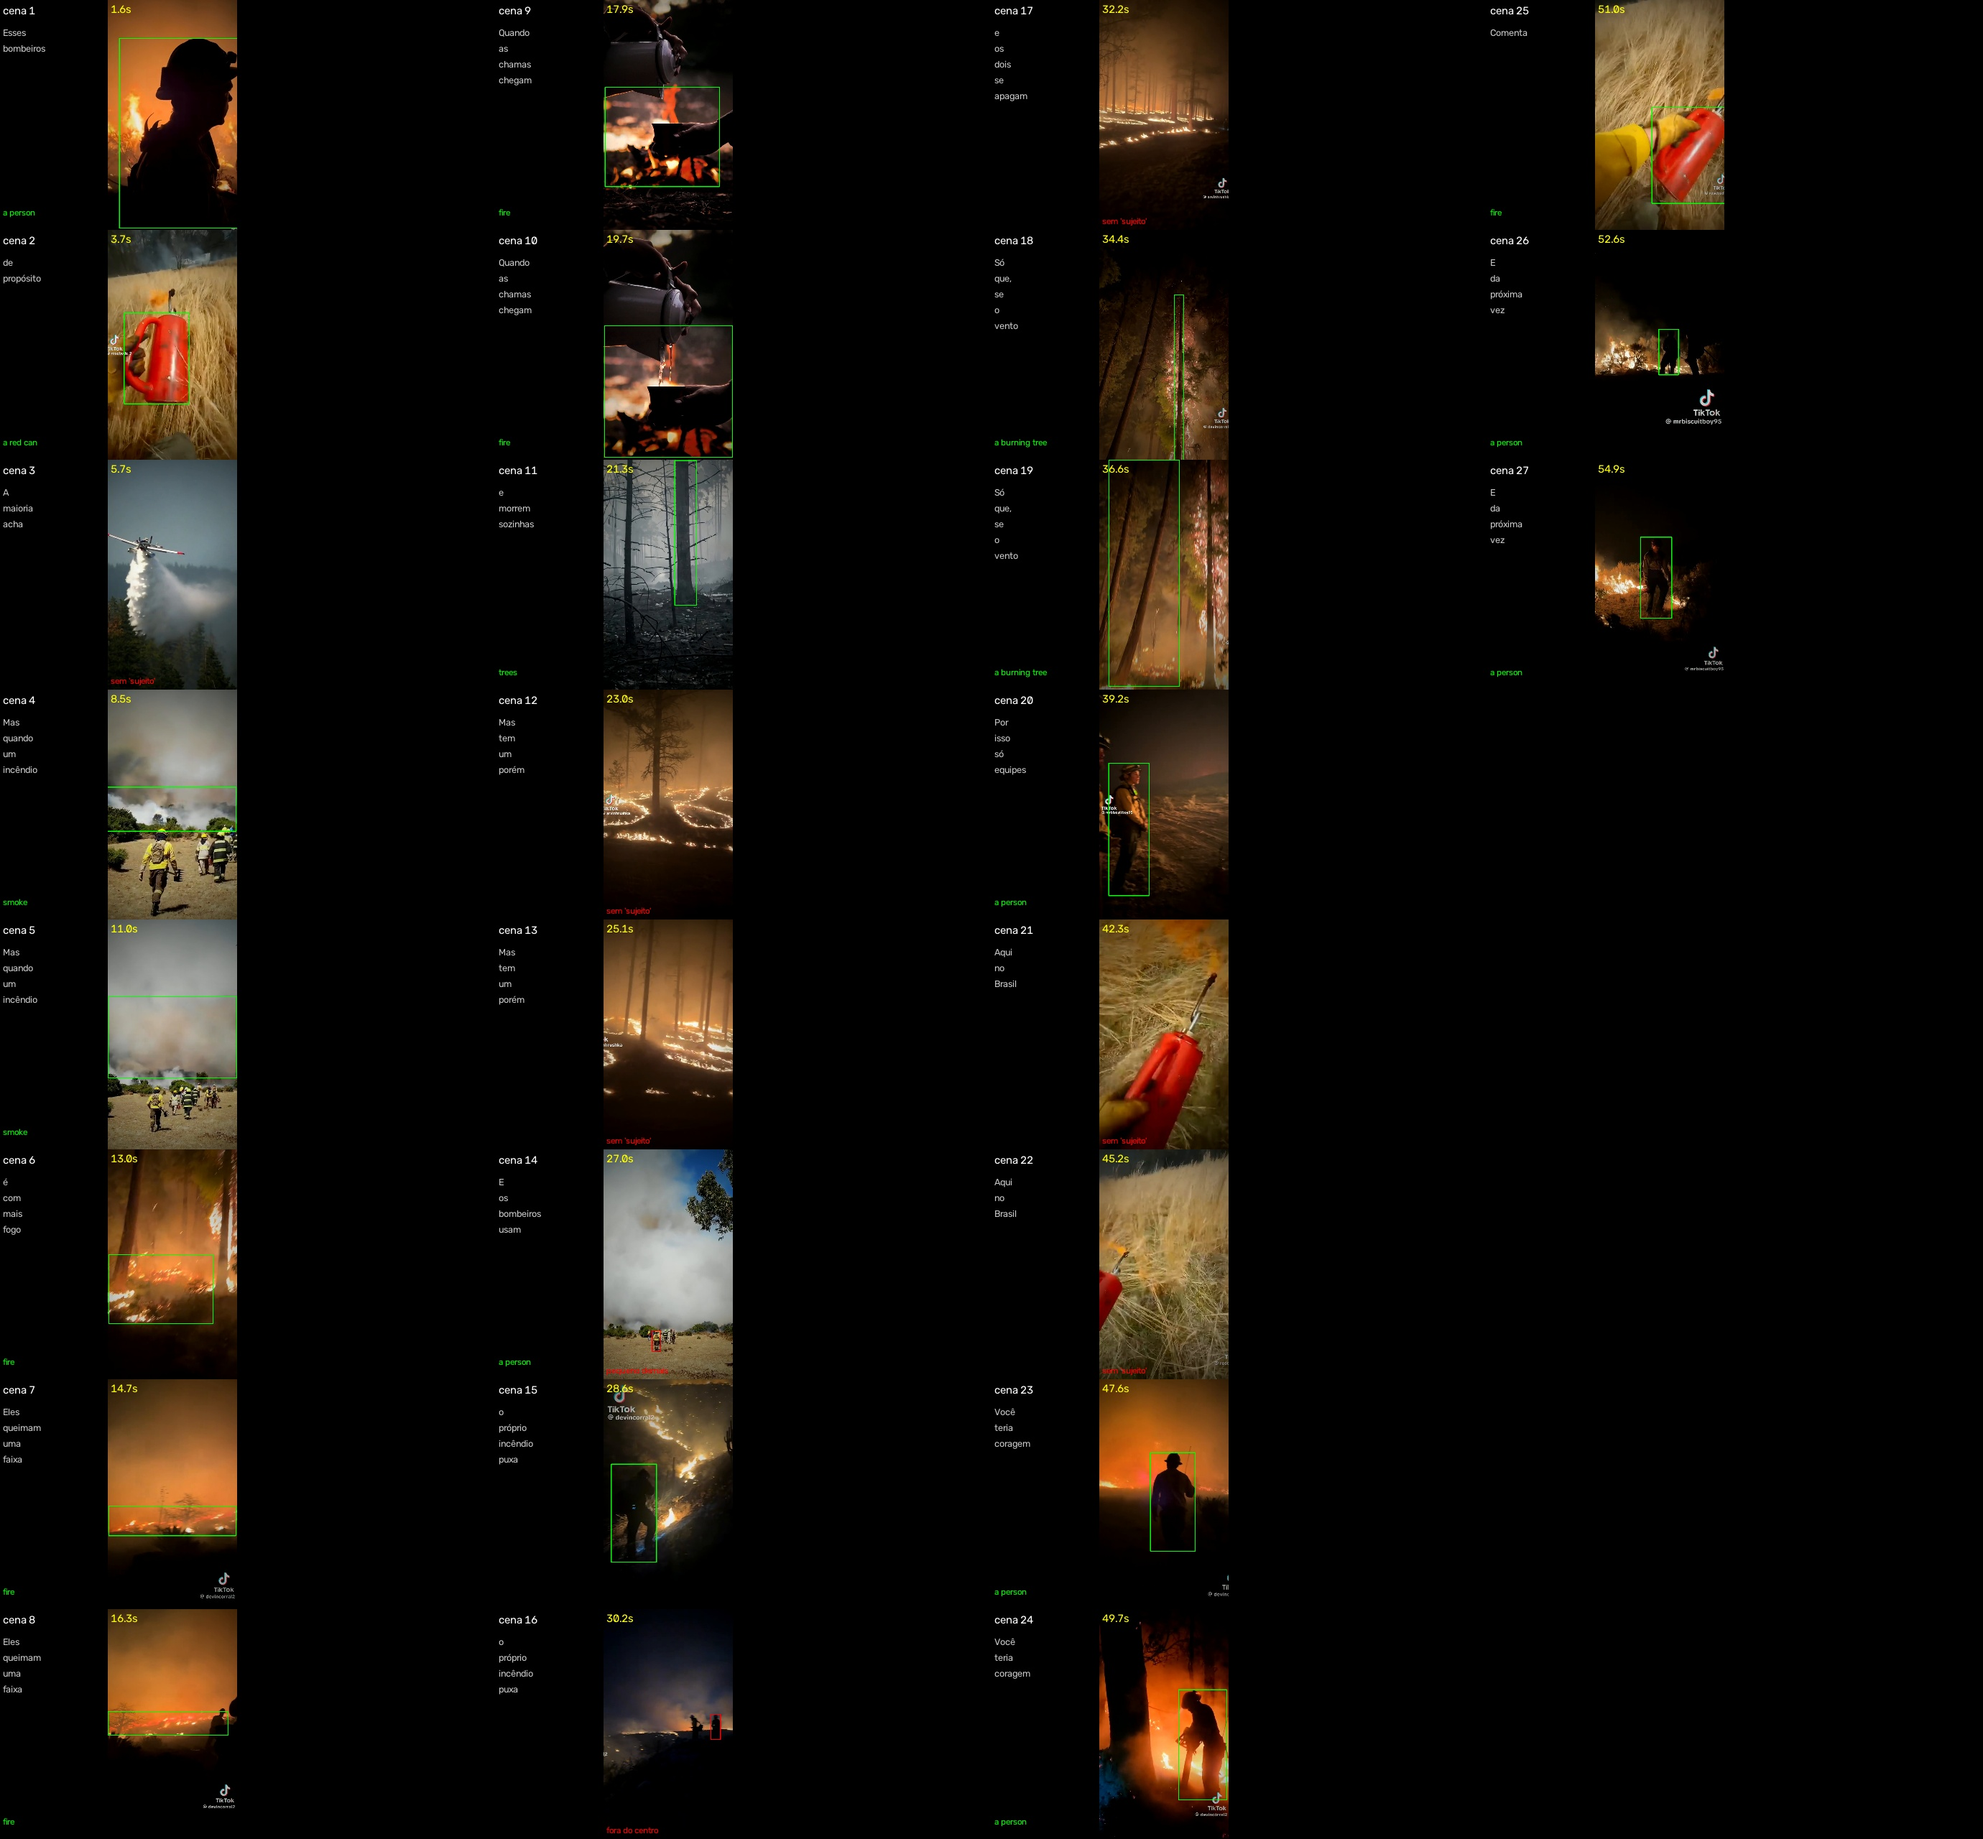
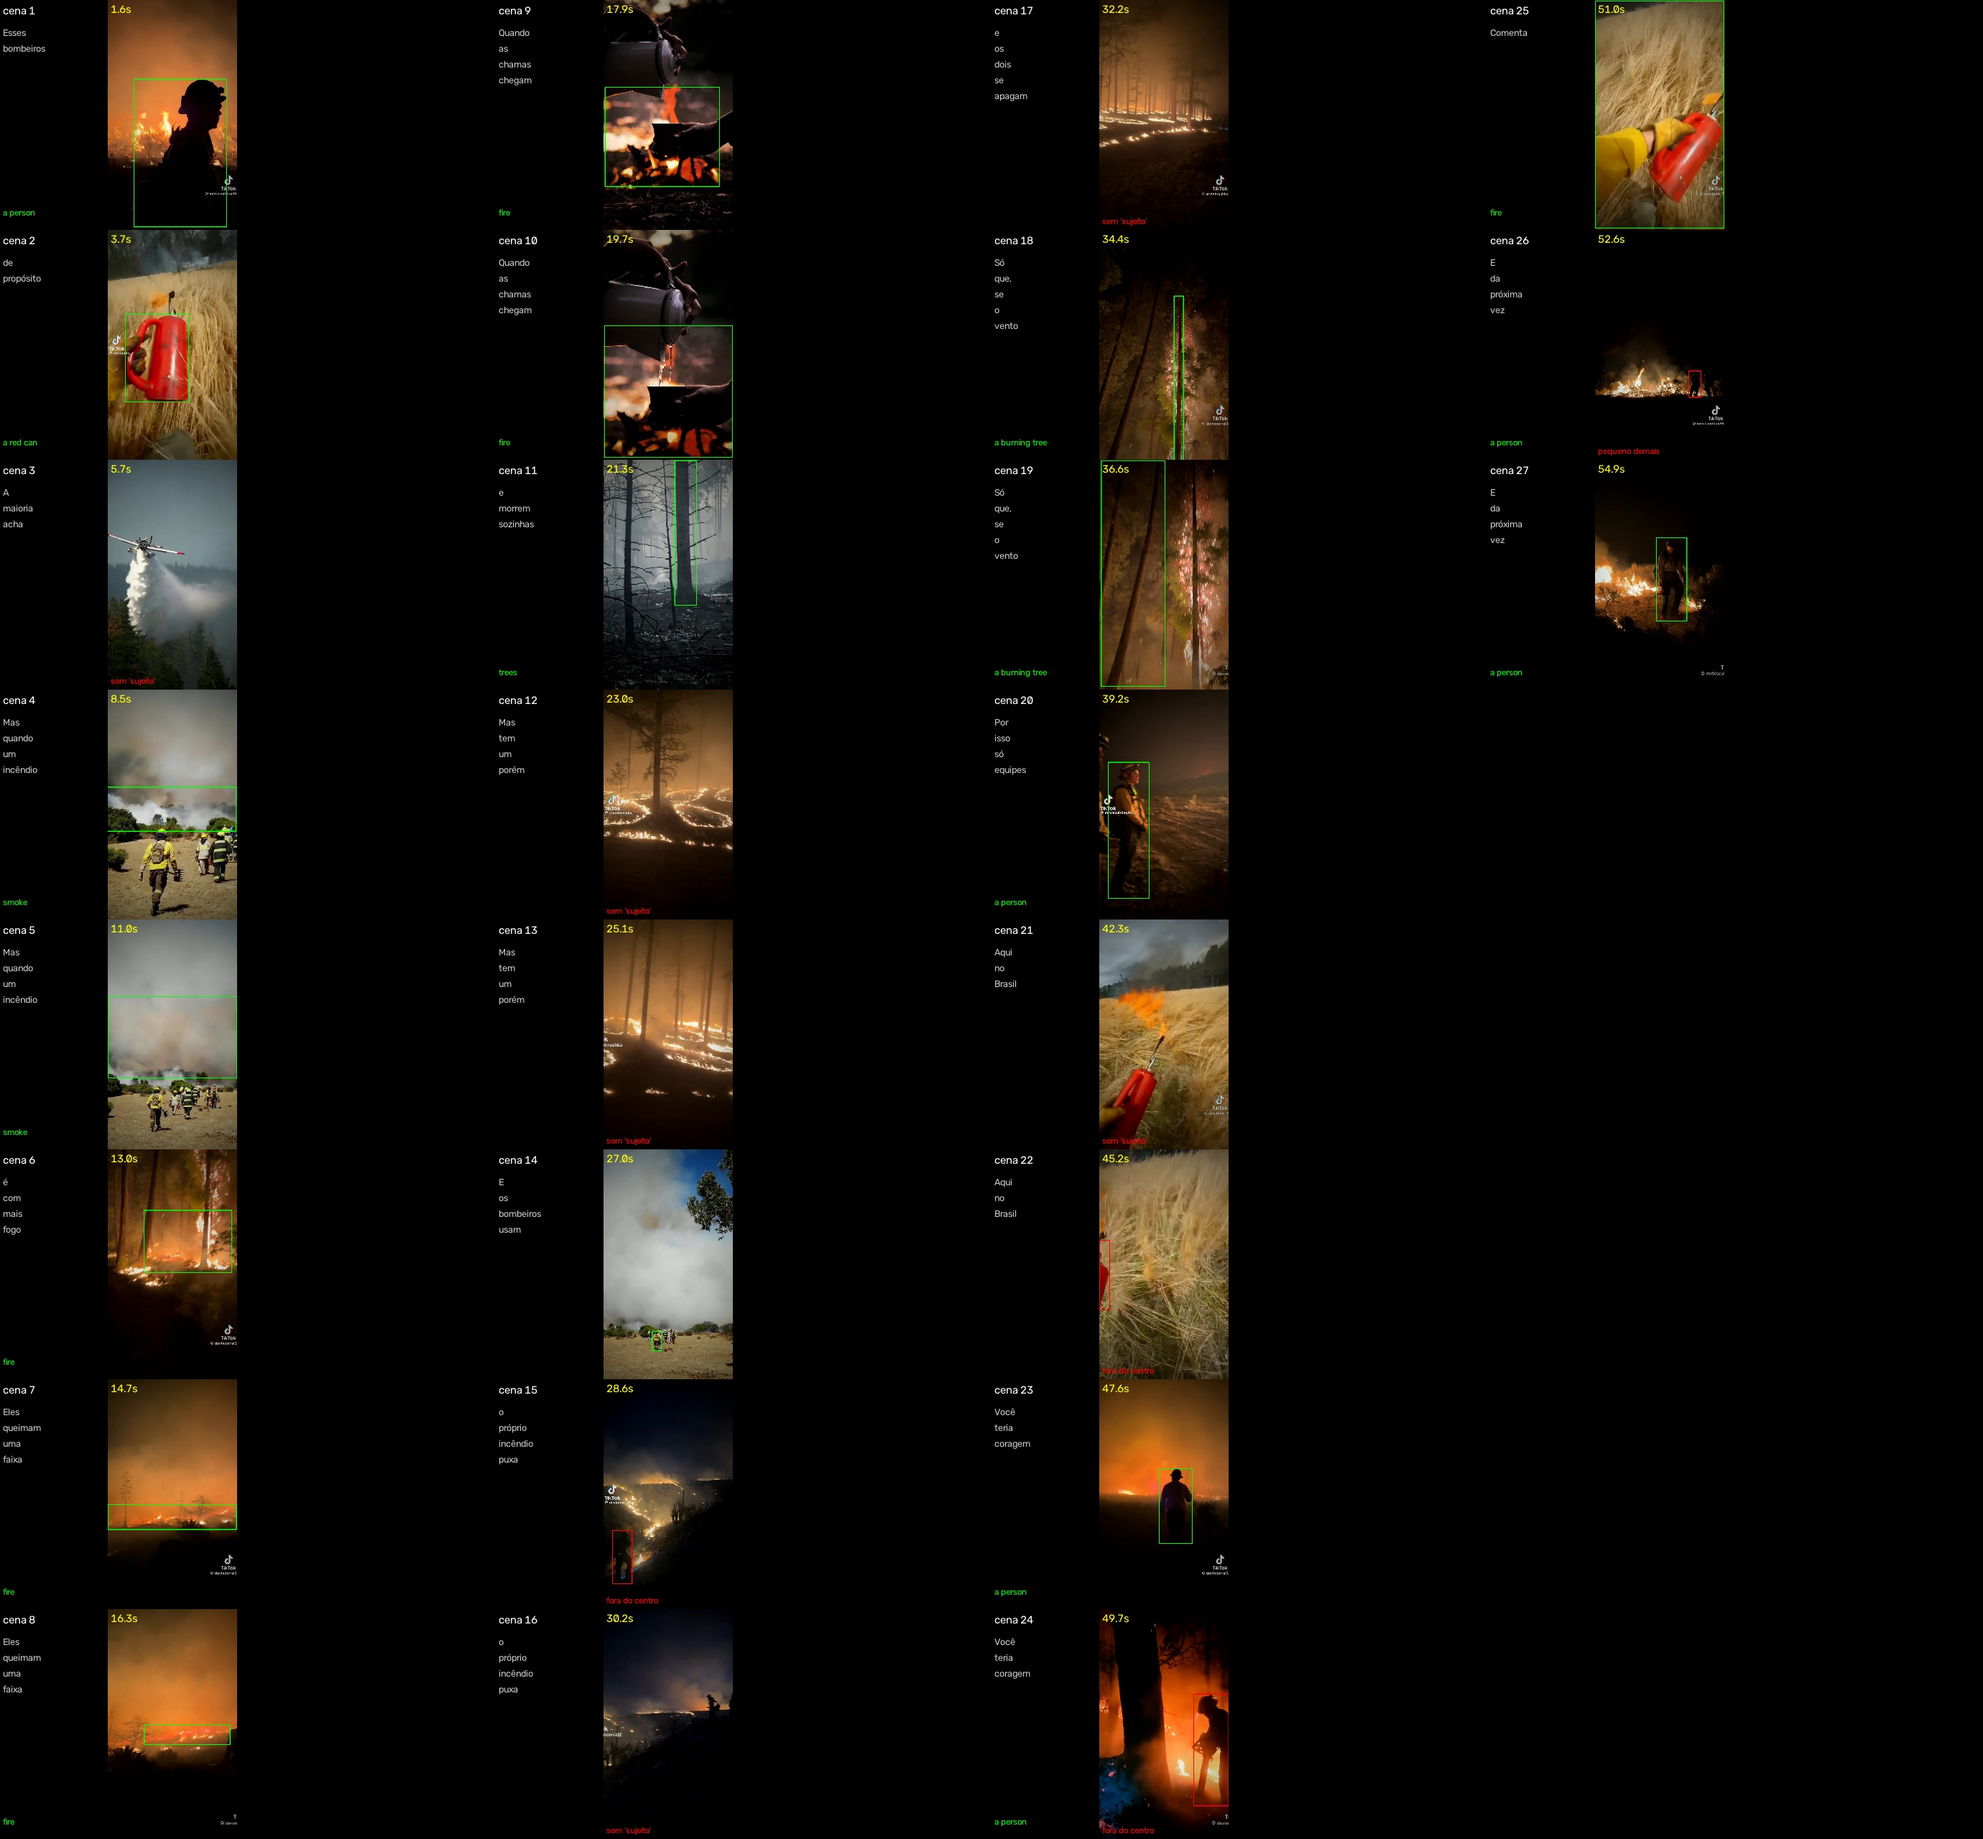
Trava de números (viitu.provar) + clipes verticais sem zoom (marca d'água pequena) + nunca usar tela final do TikTok; vd004 v2
Claude-Session: https://claude.ai/code/session_01Pz7vxCjdPfCnR3b978TXUQ

diff --git a/viitu/provar.py b/viitu/provar.py
@@ -1,0 +1,59 @@
+"""Trava contra número errado: confere AO VIVO na YouTube Data API todo vídeo citado ao dono.
+
+Uso: python -m viitu.provar <link ou id> [<link ou id> ...] --papel validacao|bruto|referencia
+Imprime a linha pronta para colar na resposta (papel + título + canal + views + link) e registra em
+dados/provas.jsonl. REGRA: nenhum número de views vai para o dono sem passar por aqui na mesma resposta,
+e cada vídeo vem rotulado pelo PAPEL dele (a prova do tema é uma coisa; o bruto é outra).
+"""
+
+from __future__ import annotations
+
+import argparse
+import datetime as dt
+import json
+import re
+from pathlib import Path
+
+from viitu import youtube_api as yt
+
+RAIZ = Path(__file__).resolve().parent.parent
+ROTULO = {"validacao": "✅ PROVA DO TEMA", "bruto": "🎬 BRUTO (material)", "referencia": "📌 REFERÊNCIA"}
+
+
+def _id(x: str) -> str:
+    m = re.search(r"(?:shorts/|v=|youtu\.be/)([\w-]{11})", x)
+    return m.group(1) if m else x
+
+
+def provar(links: list[str], papel: str) -> list[dict]:
+    ids = [_id(x) for x in links]
+    itens = yt._get("videos", 1, part="snippet,statistics,contentDetails", id=",".join(ids)).get("items", [])
+    achados = {i["id"]: i for i in itens}
+    out = []
+    for vid in ids:
+        if vid not in achados:
+            print(f"❌ {vid}: não encontrado na API — NÃO citar")
+            continue
+        v = achados[vid]
+        reg = {"quando": dt.datetime.now().isoformat(timespec="seconds"), "papel": papel, "id": vid,
+               "titulo": v["snippet"]["title"], "canal": v["snippet"]["channelTitle"],
+               "views": int(v["statistics"].get("viewCount", 0)), "publicado": v["snippet"]["publishedAt"][:10],
+               "duracao_s": yt.duracao_segundos(v["contentDetails"]["duration"]),
+               "link": f"https://youtube.com/shorts/{vid}" if yt.duracao_segundos(v["contentDetails"]["duration"]) <= 180
+               else f"https://youtu.be/{vid}"}
+        out.append(reg)
+        print(f"{ROTULO[papel]} | \"{reg['titulo']}\" ({reg['canal']}) | {reg['views']:,} views (conferido agora) | {reg['link']}")
+        if papel in ("validacao", "bruto") and reg["views"] < 1_000_000:
+            print(f"   ⚠ menos de 1 milhão de views: não serve como {papel}")
+    with (RAIZ / "dados" / "provas.jsonl").open("a", encoding="utf-8") as f:
+        for r in out:
+            f.write(json.dumps(r, ensure_ascii=False) + "\n")
+    return out
+
+
+if __name__ == "__main__":
+    ap = argparse.ArgumentParser()
+    ap.add_argument("links", nargs="+")
+    ap.add_argument("--papel", choices=list(ROTULO), required=True)
+    a = ap.parse_args()
+    provar(a.links, a.papel)

diff --git a/viitu/editar.py b/viitu/editar.py
@@ -362,10 +362,32 @@ def auto_enquadrar(s: dict, clipe: Path, n_frames: int) -> None:
         s["zoom"] = [round(z, 2), round(min(z + 0.12, 1.75), 2)]
 
 
+def _clipe_vertical(clipe: Path) -> tuple[bool, float]:
+    import cv2
+    cap = cv2.VideoCapture(str(clipe))
+    w, h = cap.get(cv2.CAP_PROP_FRAME_WIDTH), cap.get(cv2.CAP_PROP_FRAME_HEIGHT)
+    d = (cap.get(cv2.CAP_PROP_FRAME_COUNT) or 0) / (cap.get(cv2.CAP_PROP_FPS) or 30)
+    cap.release()
+    return (h > 0 and abs(w / h - W / H) < 0.04), d
+
+
 def renderizar_cena(s: dict, pasta: Path, idx: int) -> Path:
     clipe = pasta / "clipes" / s["clipe"]
     eh_foto = clipe.suffix.lower() in (".jpg", ".jpeg", ".png", ".webp")
     n = s["f1"] - s["f0"]
+    if not eh_foto:
+        vertical, dur_clipe = _clipe_vertical(clipe)
+        if vertical and not s.get("efeito"):
+            # clipe já 9:16 (TikTok/Reels): sem câmera virtual e sem zoom forte — zoom amplia a marca
+            # d'água ("logo estourado") e borra vídeo de baixa resolução
+            s.setdefault("foco", [0.5, 0.5]); s.setdefault("alvo", [0.5, 0.5]); s.setdefault("zoom", [1.0, 1.04])
+        if s["clipe"].startswith("tiktok") or s.get("fonte") == "tiktok":
+            # os últimos ~3,5 s do TikTok baixado são a tela final (logo + @): nunca usar
+            limite = dur_clipe - 3.5
+            uso = n / FPS * float(s.get("velocidade", 1.0))
+            if s.get("inicio", 0) + uso > limite:
+                s["inicio"] = max(limite - uso, 0)
+                print(f"    aviso: cena '{s['em']}' recuada para não pegar a tela final do TikTok")
     if s.get("layout") == "inteiro":
         import cv2
         cap = cv2.VideoCapture(str(clipe))

diff --git a/CLAUDE.md b/CLAUDE.md
@@ -8,6 +8,9 @@ nesta sessão cloud. Fale sempre em **português do Brasil**, simples e direto.
 - **Tutorial:** um passo por vez, sem dar várias opções. Decida e explique o porquê em uma linha.
 - Passos manuais do usuário: numerados, curtos, com links diretos.
 - **Nunca** invente números (views, inscritos). Números só da YouTube Data API ou de print do usuário.
+- **TRAVA DE NÚMEROS:** todo vídeo citado ao dono passa por `python3 -m viitu.provar <link> --papel
+  validacao|bruto|referencia` NA MESMA RESPOSTA, e é apresentado com o rótulo do papel + link exato
+  (a prova do tema ≠ o bruto). Validação e bruto só com ≥ 1M de views.
 - **Nunca** peça chave/senha no chat. Chaves ficam nos secrets do ambiente "Viitu".
 
 ## Fluxo de produção (meta final)

diff --git a/.claude/skills/tema/SKILL.md b/.claude/skills/tema/SKILL.md
@@ -67,6 +67,7 @@ O usuário escolhe um e seguimos para `/clipes` e `/roteiro`.
    faça commit e push.
 
 ## Regras
+- Antes de mostrar qualquer vídeo ao dono: `python3 -m viitu.provar <link> --papel validacao|bruto` e copiar a linha (rótulo + views conferidas + link).
 - **Nunca invente números.** Todo número vem da saída do script.
 - Cota: cada `candidatos` gasta ~600 unidades, cada `lacuna` ~100. Limite diário grátis: 10.000.
 - O vídeo estrangeiro é **prova de demanda e fonte de informação**; a imagem do nosso vídeo

diff --git a/.claude/skills/clipes/SKILL.md b/.claude/skills/clipes/SKILL.md
@@ -99,3 +99,7 @@ enquadramento e cenas ruins **antes** de mandar ao usuário.
 - Pixabay (principal, livre), Wikimedia Commons (reserva, instável na nuvem).
 - Clipes do usuário: TikTok por link direto (tentar baixar), Reddit/YouTube via link do Drive.
 - Nunca remover marca d'água de vídeo de terceiros; dar crédito na descrição.
+
+
+## Trava de números
+Antes de mostrar qualquer vídeo ao dono: `python3 -m viitu.provar <link> --papel validacao|bruto` e copiar a linha (rótulo + views conferidas + link).
